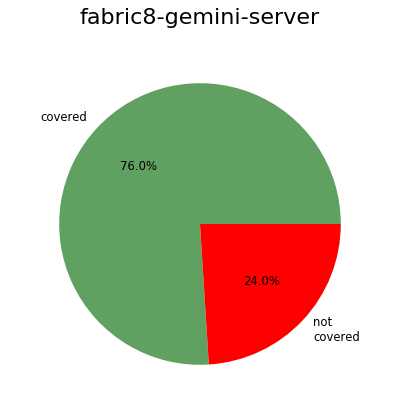
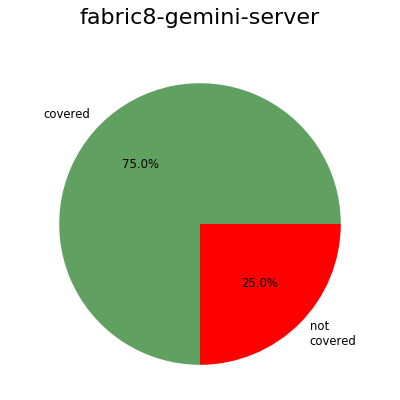
Dashboard 2018-09-07

diff --git a/dashboard/dashboard.html b/dashboard/dashboard.html
@@ -833,12 +833,12 @@ Please note that only semantical problems are reported; problems with style are 
                                         </div>
                                     </a>
                                 </td>
-                                <td class="numeric ok" style="width:6ex">425</td>
-                                <td class="numeric error" style="width:6ex">100</td>
+                                <td class="numeric ok" style="width:6ex">395</td>
+                                <td class="numeric error" style="width:6ex">98</td>
                                 <td class="numeric" style="width:16ex">
                                     <a href="fabric8-gemini-server.coverage.txt">
-                                        <div class='progress-bar progress-bar-warning progress-bar-striped' style='width:79.6%'>
-                                        76%
+                                        <div class='progress-bar progress-bar-warning progress-bar-striped' style='width:78.75%'>
+                                        75%
                                         </div>
                                     </a>
                                 </td>
@@ -1593,7 +1593,7 @@ Please note that only semantical problems are reported; problems with style are 
             -->
             <div style='height:80px'></div>
             <div>Author: Pavel Tisnovsky &lt;<a href="mailto:ptisnovs@redhat.com">ptisnovs@redhat.com</a>&gt;</div>
-            <div>Generated on: 2018-09-06 16:59:37</div>
+            <div>Generated on: 2018-09-07 08:50:15</div>
         </div>
         <script type="text/javascript">
         $(function () {

diff --git a/dashboard/metrics.html b/dashboard/metrics.html
@@ -604,7 +604,7 @@ Please note that only semantical problems are reported; problems with style are 
                 </div>
             <div style='height:80px'></div>
             <div>Author: Pavel Tisnovsky &lt;<a href="mailto:ptisnovs@redhat.com">ptisnovs@redhat.com</a>&gt;</div>
-            <div>Generated on: 2018-09-06 16:59:37</div>
+            <div>Generated on: 2018-09-07 08:50:15</div>
         </div>
         <script type="text/javascript">
         $(function () {

diff --git a/dashboard/repository_fabric8-analytics-worker.html b/dashboard/repository_fabric8-analytics-worker.html
@@ -1000,7 +1000,7 @@
             </div>
             <div style='height:100px'></div>
             <div>Author: Pavel Tisnovsky &lt;<a href="mailto:ptisnovs@redhat.com">ptisnovs@redhat.com</a>&gt;</div>
-            <div>Generated on: 2018-09-06 16:59:37</div>
+            <div>Generated on: 2018-09-07 08:50:15</div>
         </div>
     </body>
 </html>

diff --git a/dashboard/repository_cvejob.html b/dashboard/repository_cvejob.html
@@ -178,7 +178,7 @@
             </div>
             <div style='height:100px'></div>
             <div>Author: Pavel Tisnovsky &lt;<a href="mailto:ptisnovs@redhat.com">ptisnovs@redhat.com</a>&gt;</div>
-            <div>Generated on: 2018-09-06 16:59:37</div>
+            <div>Generated on: 2018-09-07 08:50:15</div>
         </div>
     </body>
 </html>

diff --git a/dashboard/repository_f8a-hpf-insights.html b/dashboard/repository_f8a-hpf-insights.html
@@ -166,7 +166,7 @@
             </div>
             <div style='height:100px'></div>
             <div>Author: Pavel Tisnovsky &lt;<a href="mailto:ptisnovs@redhat.com">ptisnovs@redhat.com</a>&gt;</div>
-            <div>Generated on: 2018-09-06 16:59:37</div>
+            <div>Generated on: 2018-09-07 08:50:15</div>
         </div>
     </body>
 </html>

diff --git a/dashboard/repository_fabric8-analytics-common.html b/dashboard/repository_fabric8-analytics-common.html
@@ -670,7 +670,7 @@
             </div>
             <div style='height:100px'></div>
             <div>Author: Pavel Tisnovsky &lt;<a href="mailto:ptisnovs@redhat.com">ptisnovs@redhat.com</a>&gt;</div>
-            <div>Generated on: 2018-09-06 16:59:37</div>
+            <div>Generated on: 2018-09-07 08:50:15</div>
         </div>
     </body>
 </html>

diff --git a/dashboard/repository_fabric8-analytics-data-model.html b/dashboard/repository_fabric8-analytics-data-model.html
@@ -166,7 +166,7 @@
             </div>
             <div style='height:100px'></div>
             <div>Author: Pavel Tisnovsky &lt;<a href="mailto:ptisnovs@redhat.com">ptisnovs@redhat.com</a>&gt;</div>
-            <div>Generated on: 2018-09-06 16:59:37</div>
+            <div>Generated on: 2018-09-07 08:50:15</div>
         </div>
     </body>
 </html>

diff --git a/dashboard/repository_fabric8-analytics-ingestion.html b/dashboard/repository_fabric8-analytics-ingestion.html
@@ -106,7 +106,7 @@
             </div>
             <div style='height:100px'></div>
             <div>Author: Pavel Tisnovsky &lt;<a href="mailto:ptisnovs@redhat.com">ptisnovs@redhat.com</a>&gt;</div>
-            <div>Generated on: 2018-09-06 16:59:37</div>
+            <div>Generated on: 2018-09-07 08:50:15</div>
         </div>
     </body>
 </html>

diff --git a/dashboard/repository_fabric8-analytics-jobs.html b/dashboard/repository_fabric8-analytics-jobs.html
@@ -274,7 +274,7 @@
             </div>
             <div style='height:100px'></div>
             <div>Author: Pavel Tisnovsky &lt;<a href="mailto:ptisnovs@redhat.com">ptisnovs@redhat.com</a>&gt;</div>
-            <div>Generated on: 2018-09-06 16:59:37</div>
+            <div>Generated on: 2018-09-07 08:50:15</div>
         </div>
     </body>
 </html>

diff --git a/dashboard/repository_fabric8-analytics-license-analysis.html b/dashboard/repository_fabric8-analytics-license-analysis.html
@@ -202,7 +202,7 @@
             </div>
             <div style='height:100px'></div>
             <div>Author: Pavel Tisnovsky &lt;<a href="mailto:ptisnovs@redhat.com">ptisnovs@redhat.com</a>&gt;</div>
-            <div>Generated on: 2018-09-06 16:59:37</div>
+            <div>Generated on: 2018-09-07 08:50:15</div>
         </div>
     </body>
 </html>

diff --git a/dashboard/repository_fabric8-analytics-npm-insights.html b/dashboard/repository_fabric8-analytics-npm-insights.html
@@ -166,7 +166,7 @@
             </div>
             <div style='height:100px'></div>
             <div>Author: Pavel Tisnovsky &lt;<a href="mailto:ptisnovs@redhat.com">ptisnovs@redhat.com</a>&gt;</div>
-            <div>Generated on: 2018-09-06 16:59:37</div>
+            <div>Generated on: 2018-09-07 08:50:15</div>
         </div>
     </body>
 </html>

diff --git a/dashboard/repository_fabric8-analytics-nvd-toolkit.html b/dashboard/repository_fabric8-analytics-nvd-toolkit.html
@@ -226,7 +226,7 @@
             </div>
             <div style='height:100px'></div>
             <div>Author: Pavel Tisnovsky &lt;<a href="mailto:ptisnovs@redhat.com">ptisnovs@redhat.com</a>&gt;</div>
-            <div>Generated on: 2018-09-06 16:59:37</div>
+            <div>Generated on: 2018-09-07 08:50:15</div>
         </div>
     </body>
 </html>
